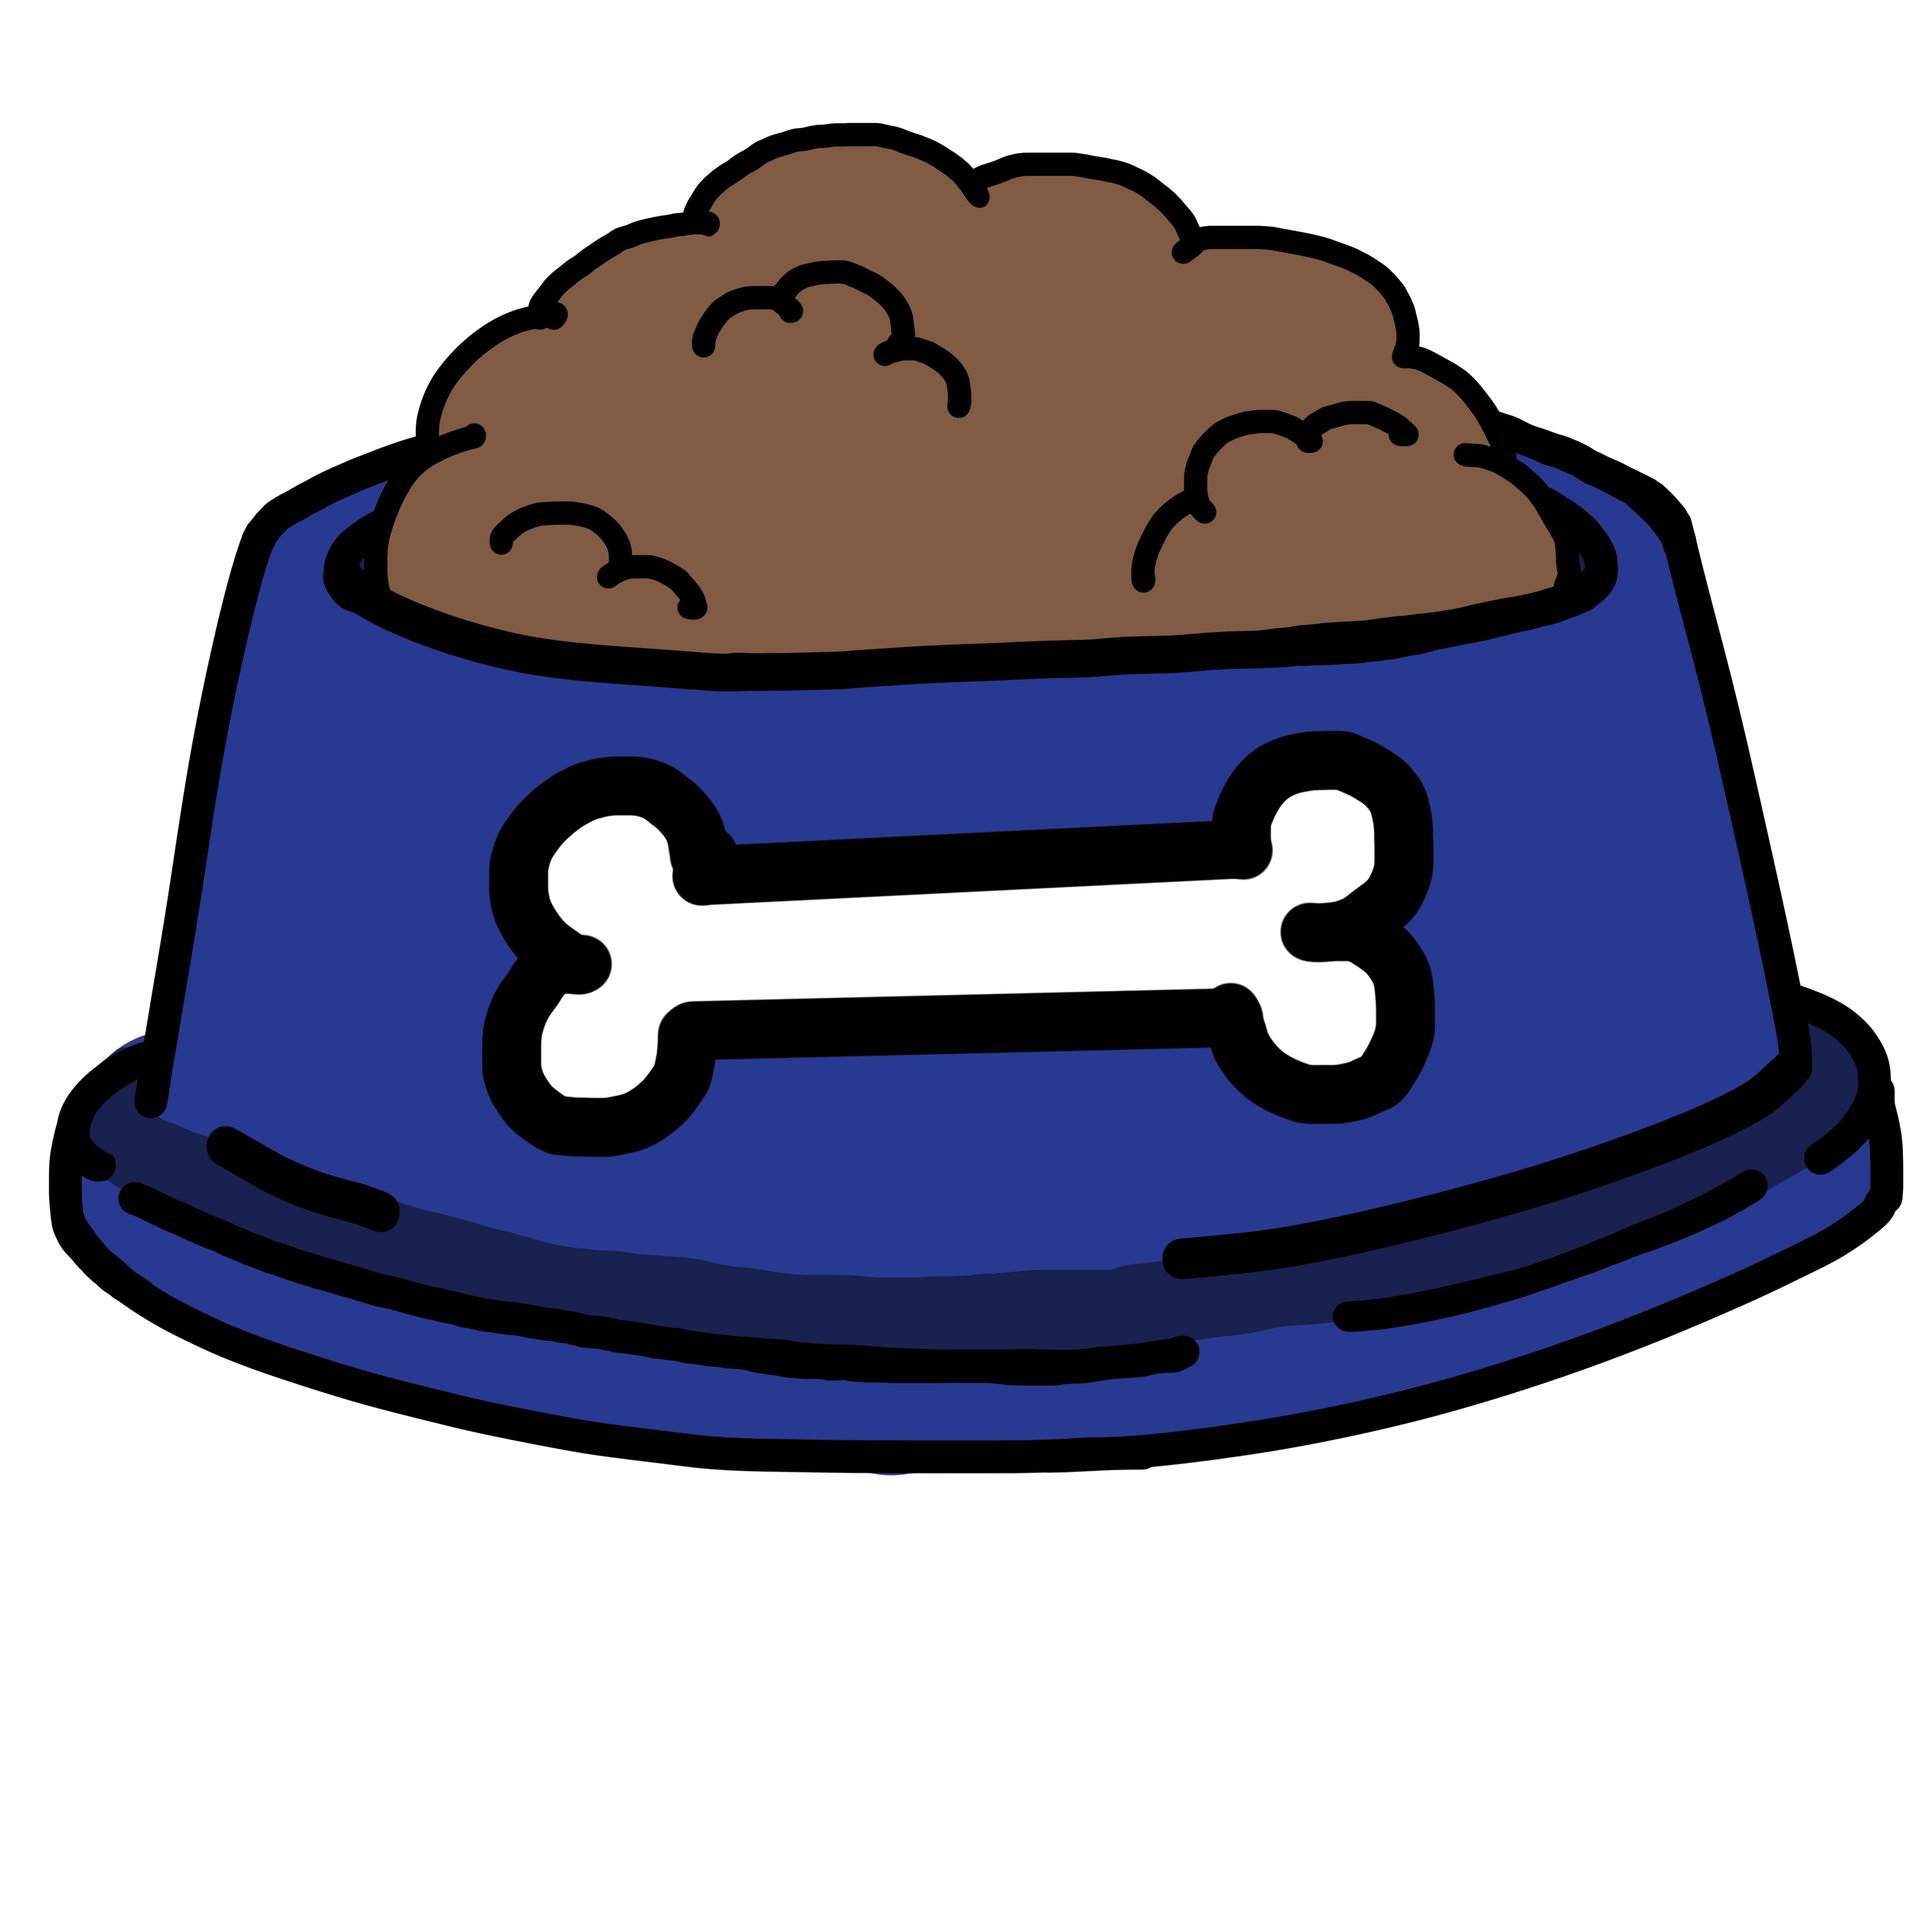
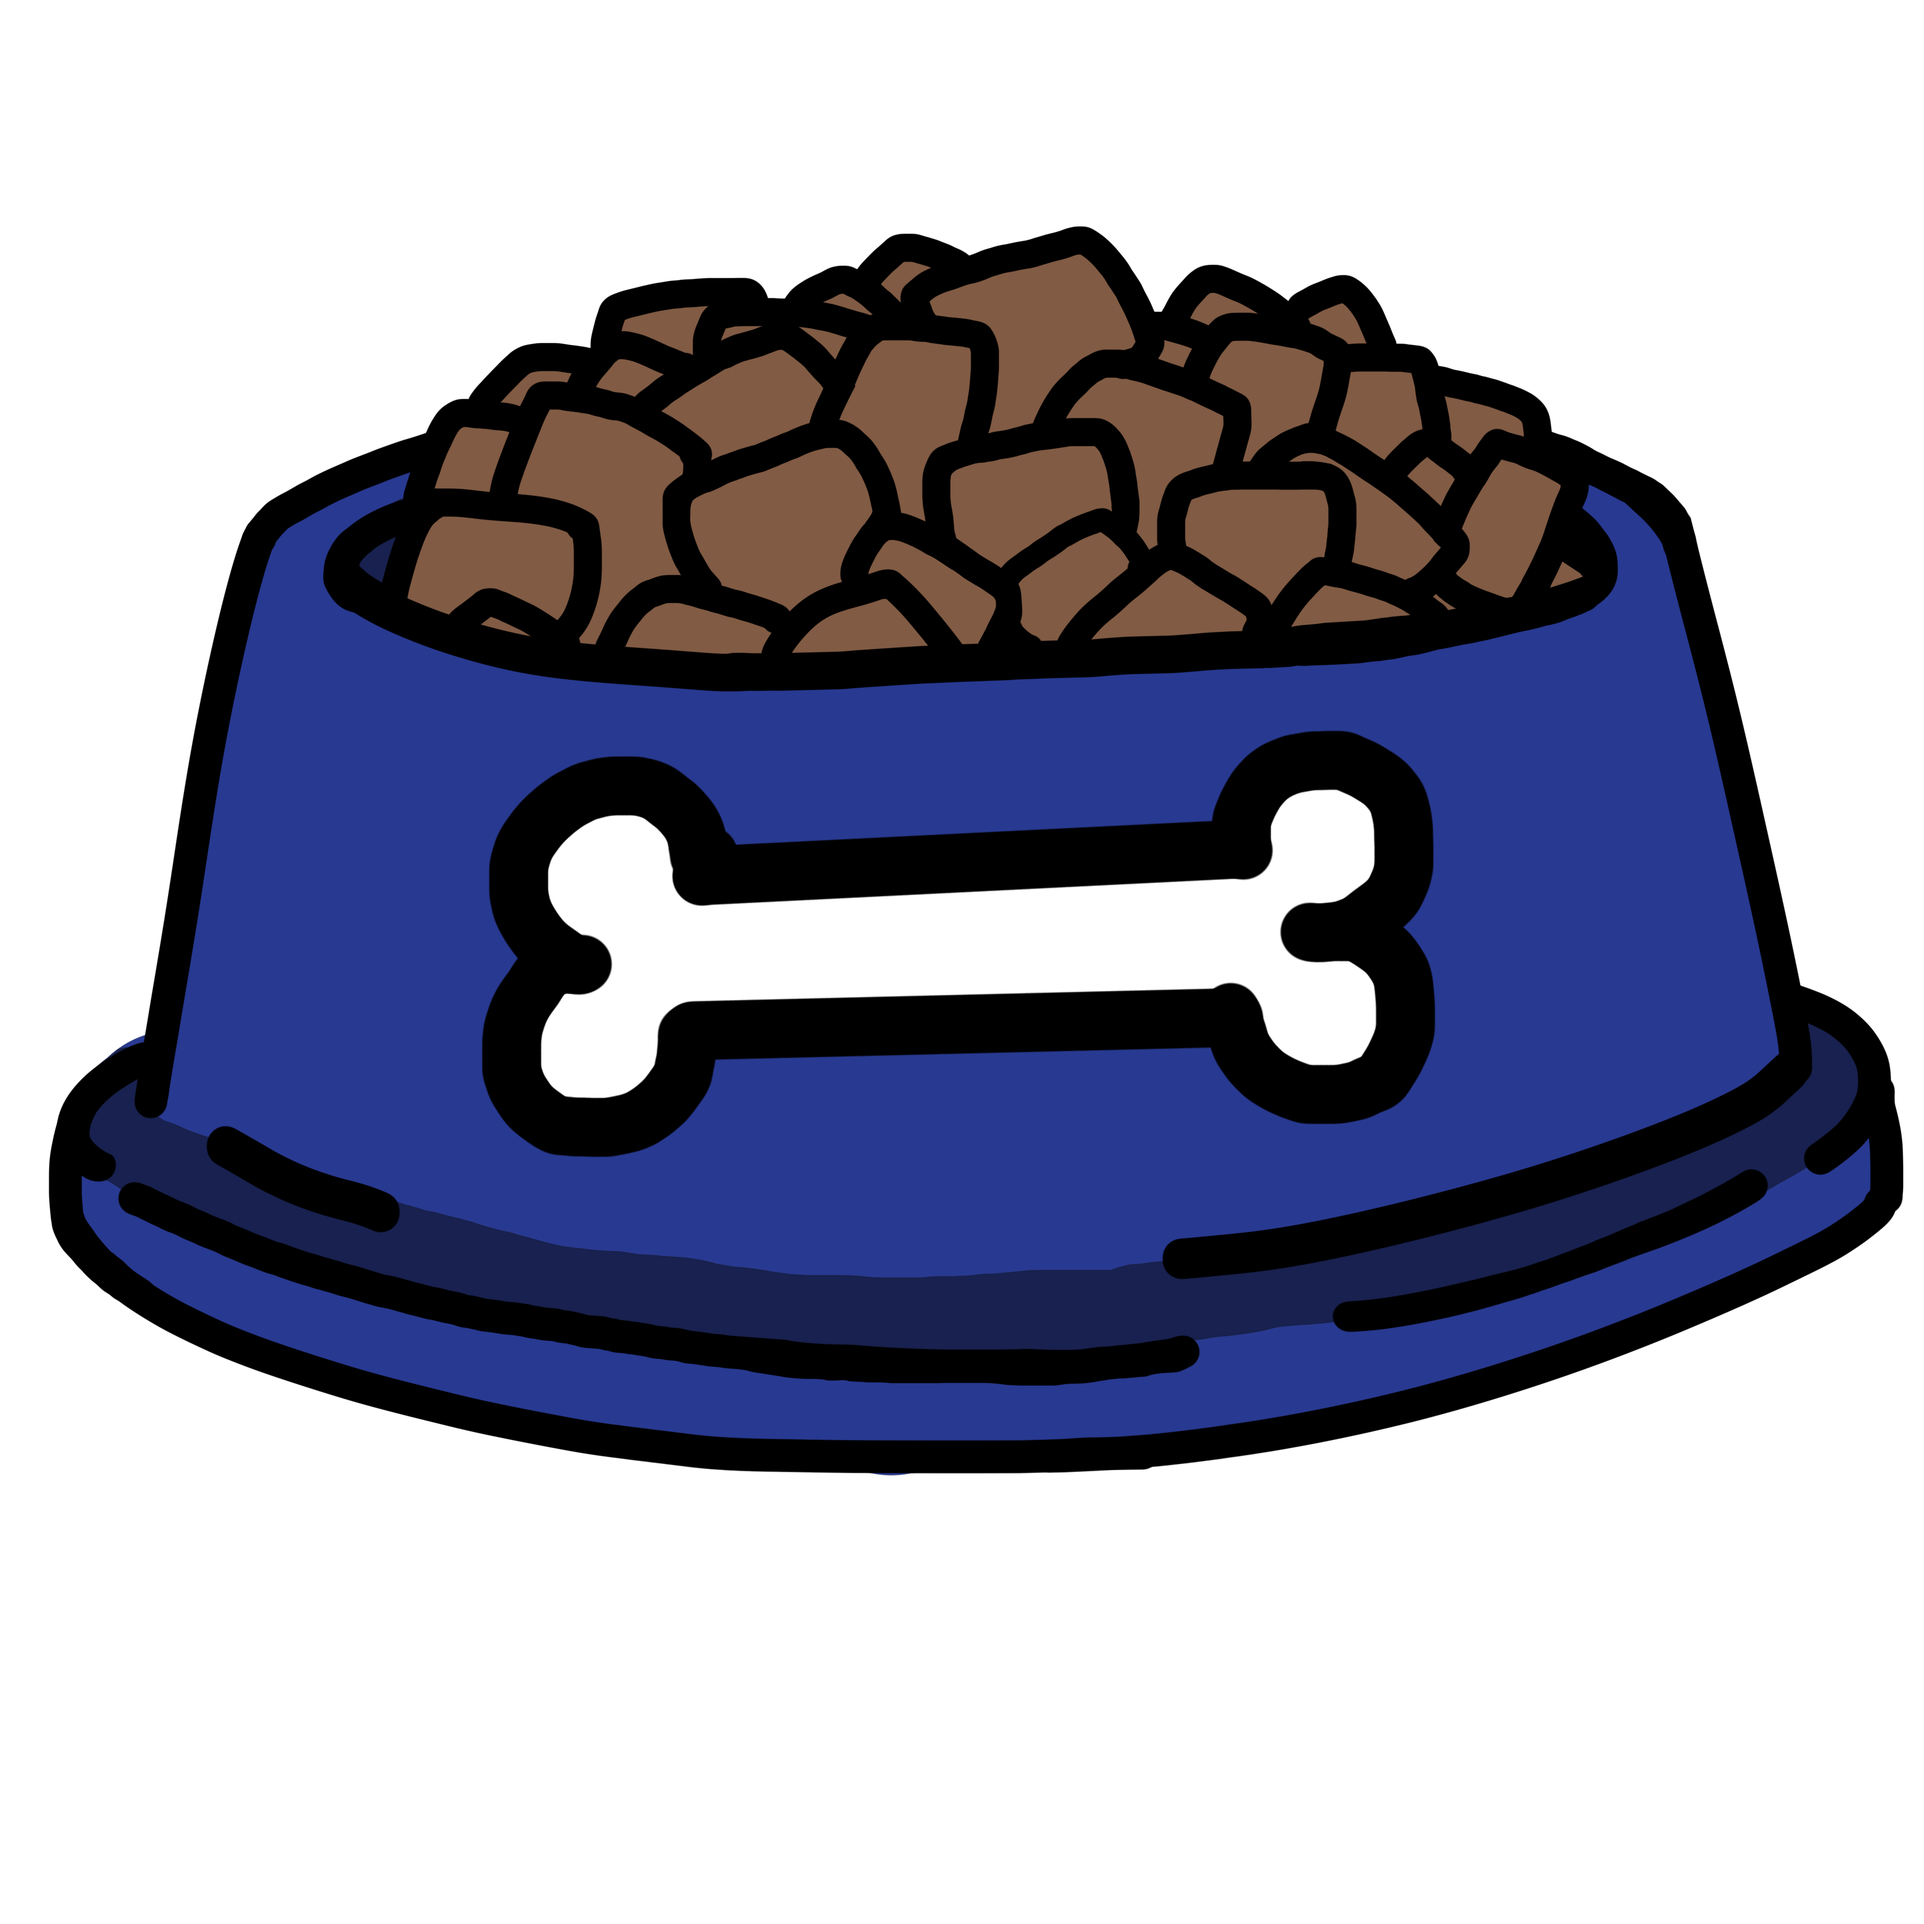
docs: update README and branding assets

Changed region(s): [[0.1875, 0.0625, 0.8438, 0.3438]]

diff --git a/lib/auth.ts b/lib/auth.ts
@@ -1,21 +1,18 @@
-// lib/auth.ts
-import { prisma } from "@/lib/prisma"; // 기존 단일 인스턴스 prisma 인프라 수입
+import { prisma } from "@/lib/prisma";
 import { PrismaAdapter } from "@next-auth/prisma-adapter"; 
 import { NextAuthOptions } from "next-auth";
 import CredentialsProvider from "next-auth/providers/credentials";
 import GoogleProvider from "next-auth/providers/google";
 import bcrypt from "bcrypt";
 
-// 💡 외부 API(게시판 등)에서 불러와 검증할 수 있도록 굳건히 export 해줍니다!
 export const authOptions: NextAuthOptions = {
   adapter: PrismaAdapter(prisma),
   providers: [
-    // 1. 구글 로그인 설정
     GoogleProvider({
       clientId: process.env.GOOGLE_CLIENT_ID!,
       clientSecret: process.env.GOOGLE_CLIENT_SECRET!,
     }),
-    // 2. 일반 이메일/비밀번호 로그인 설정
+
     CredentialsProvider({
       name: "credentials",
       credentials: {
@@ -56,7 +53,6 @@ export const authOptions: NextAuthOptions = {
           where: { email: session.user.email! },
         });
         if (dbUser) {
-          // 💡 핵심 보안 보완: 게시판 PATCH/DELETE에서 본인 글 판정을 처리할 유저 고유 ID 장착!
           session.user.id = dbUser.id; 
           session.user.role = dbUser.role;
           session.user.nickname = dbUser.nickname;

diff --git a/app/login/page.tsx b/app/login/page.tsx
@@ -64,7 +64,7 @@ export default function LoginPage() {
         </div>
 
         <button
-          onClick={() => signIn("google", { callbackUrl: "/google-logo.svg" })}
+          onClick={() => signIn("google", { callbackUrl: "/public/google-logo.svg" })}
           className="w-full bg-white text-black border border-gray-200 py-4 rounded-2xl font-medium flex items-center justify-center gap-2 hover:bg-gray-50 transition-all"
         >
 
